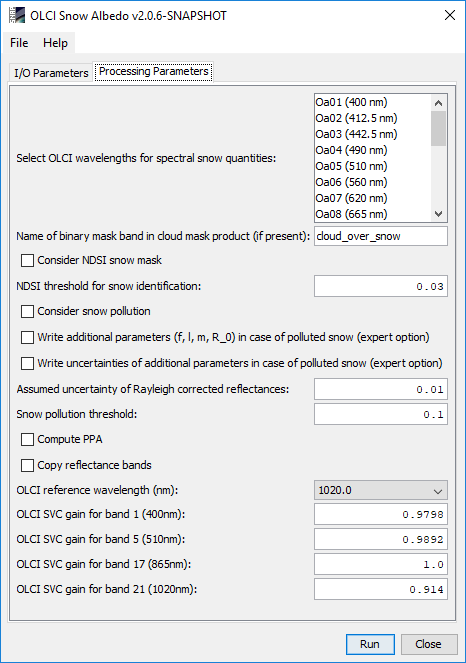
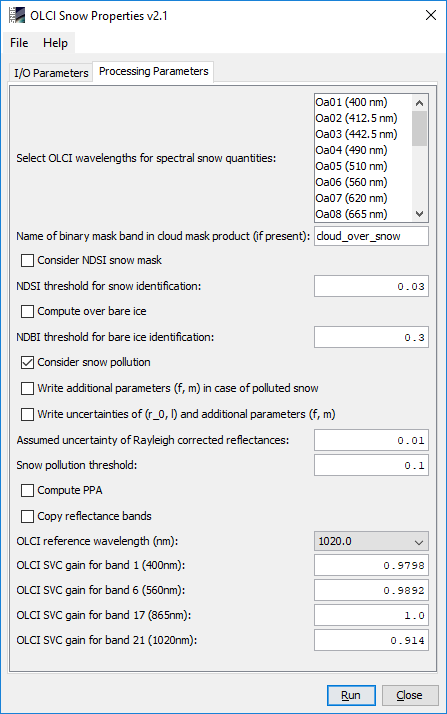
SUM: final minor corrections; processor: slightly updated help doc

diff --git a/src/main/javahelp/org/esa/s3tbx/s3tbx/snow/docs/s3snow/S3SnowProcessorDescription.html b/src/main/javahelp/org/esa/s3tbx/s3tbx/snow/docs/s3snow/S3SnowProcessorDescription.html
@@ -98,7 +98,7 @@
     The OLCI wavelengths considered for the retrieval of spectral snow quantities. For the selected wavelengths,
     the computed spectral snow quantities (i.e. spectral snow albedo, see description of processor output below)
     will be written as corresponding band into the target product. If no band is selected, only broadband snow
-    quantities and other selected, wavelength-independent quantities are written to the target product.
+    quantities and other selected wavelength-independent quantities are written to the target product.
 </p>
 
 <p class="i1">
@@ -150,18 +150,20 @@
 </p>
 
 <p class="i1">
-    <b>Write additional parameters (f, l, m, R_0) in case of polluted snow (expert option): </b><br>
-    If selected, additional parameters related to polluted snow will be computed for the pixels identified as
-    'polluted' (see above) and written to the target product. The interpretation of these parameters requires
+    <b>Write additional parameters (f, m) in case of polluted snow: </b><br>
+    "If selected, additional parameters (f, m) will be written to the target product in case
+    of polluted snow. The option 'Consider snow pollution' must be selected as well.
+    The interpretation of these parameters requires
     detailed knowledge of the underlying algorithm, therefore this user parameter is considered as an 'expert option'.
     The default is 'false'.
 </p>
 
 <p class="i1">
-    <b>Write uncertainties of additional parameters in case of polluted snow (expert option): </b><br>
-    If selected together with the previous processing parameter, uncertainties of the additional parameters related to
-    polluted snow (see previous processing parameter) will be computed for the pixels identifies as 'polluted'
-    (see above) and written to the target product. The interpretation of these uncertainties requires
+    <b>Write uncertainties of (r_0, l) and additional parameters (f, m): </b><br>
+    If selected, uncertainties of (r_0, l) and of additional parameters (f, m)  in case of polluted
+    snow will be written to the target product.
+    For uncertainties of (f, m), the options 'Consider snow pollution' and 'Write additional parameters
+    (f, m)...' must be selected as well. The interpretation of these uncertainties requires
     detailed knowledge of the underlying algorithm, therefore this user parameter is also considered as an 'expert option'.
     The default is 'false'.
 </p>
@@ -175,7 +177,7 @@
 <p class="i1">
     <b>Snow pollution threshold: </b><br>
     Threshold for identification of polluted snow, as explained above with the processing parameter
-    'Consider snow pollution'. Default values is 0.1.
+    'Consider snow pollution'. Default value is 0.1.
 </p>
 
 <p class="i1">
@@ -381,7 +383,7 @@ were selected, and all boolean processing parameters explained above set to 'tru
 
     <b>[2]</b>
     Kokhanovsky, A., Box, J.E., Lamare, M., Dumont, M., Picard, G., Danne, O., and C. Brockmann:
-    Algorithm Theoretical Basis Document: Snow Properties Retrieval from Sentinel-3. Version 3.0, 30 April 2018.<br><br>
+    Algorithm Theoretical Basis Document: Snow Properties Retrieval from Sentinel-3. Version 2.4, 11 January 2019.<br><br>
 
     <b>[3]</b>
     <a href="https://www.google.com/url?sa=t&rct=j&q=&esrc=s&source=web&cd=1&ved=2ahUKEwjWg7ChtOrcAhXPfFAKHeIZCp4QFjAAegQICRAC&url=https%3A%2F%2Fwww.eumetsat.int%2Fwebsite%2Fwcm%2Fidc%2Fidcplg%3FIdcService%3DGET_FILE%26dDocName%3DPDF_S3A_PN_OLCI_L2%26RevisionSelectionMethod%3DLatestReleased%26Rendition%3DWeb&usg=AOvVaw3kklxm9qc0TSptA6fX1MOa">

diff --git a/src/main/javahelp/org/esa/s3tbx/s3tbx/snow/docs/s3snow/S3Snow.html b/src/main/javahelp/org/esa/s3tbx/s3tbx/snow/docs/s3snow/S3Snow.html
@@ -57,7 +57,7 @@
 
     <b>[2]</b>
     Kokhanovsky, A., Box, J.E., Lamare, M., Dumont, M., Picard, G., Danne, O., and C. Brockmann:
-    Algorithm Theoretical Basis Document: Snow Properties Retrieval from Sentinel-3. Version 3.0, 30 April 2018.<br><br>
+    Algorithm Theoretical Basis Document: Snow Properties Retrieval from Sentinel-3. Version 2.4, 11 January 2019.<br><br>
 
     <b>[3]</b>
     <a href="https://www.eumetsat.int/website/wcm/idc/idcplg?IdcService=GET_FILE&dDocName=PDF_S3A_PN_OLCI_L2_REP&RevisionSelectionMethod=LatestReleased&Rendition=Web">

diff --git a/src/main/java/org/esa/s3tbx/snow/OlciSnowPropertiesOp.java b/src/main/java/org/esa/s3tbx/snow/OlciSnowPropertiesOp.java
@@ -77,10 +77,10 @@ public class OlciSnowPropertiesOp extends Operator {
     private static final String POLLUTION_L_BAND_NAME = "l";
     private static final String POLLUTION_M_BAND_NAME = "m";
     private static final String POLLUTION_R0_BAND_NAME = "r_0";
-    private static final String POLLUTION_F_REL_ERR_BAND_NAME = "f_rel_err";
-    private static final String POLLUTION_L_REL_ERR_BAND_NAME = "l_rel_err";
-    private static final String POLLUTION_M_REL_ERR_BAND_NAME = "m_rel_err";
-    private static final String POLLUTION_R0_REL_ERR_BAND_NAME = "r_0_rel_err";
+    private static final String F_REL_ERR_BAND_NAME = "f_rel_err";
+    private static final String L_REL_ERR_BAND_NAME = "l_rel_err";
+    private static final String M_REL_ERR_BAND_NAME = "m_rel_err";
+    private static final String R0_REL_ERR_BAND_NAME = "r_0_rel_err";
     private static final String NDSI_MASK_BAND_NAME = "ndsi_mask";
     private static final String NDSI_BAND_NAME = "ndsi";
 
@@ -132,19 +132,20 @@ public class OlciSnowPropertiesOp extends Operator {
     private boolean considerSnowPollution;
 
     @Parameter(defaultValue = "false",
-            label = "Write additional parameters (f, l, m, R_0) in case of polluted snow (expert option)",
+            label = "Write additional parameters (f, m) in case of polluted snow",
             description =
-                    "If selected, additional parameters (f, l, m, R_0) will be written to the target product in case " +
+                    "If selected, additional parameters (f, m) will be written to the target product in case " +
                             "of polluted snow. Option 'Consider snow pollution' must be selected as well. Useful for experts only.")
     private boolean writeAdditionalSnowPollutionParms;
 
     @Parameter(defaultValue = "false",
-            label = "Write uncertainties of additional parameters in case of polluted snow (expert option)",
+            label = "Write uncertainties of (r_0, l) and additional parameters (f, m)",
             description =
-                    "If selected, uncertainties of additional parameters will be written to the target product in case " +
-                            "of polluted snow. Options 'Consider snow pollution' and 'Write additional parameters " +
-                            "(f, l, m, R_0)...' must be selected as well. Useful for experts only.")
-    private boolean writeUncertaintiesOfAdditionalSnowPollutionParms;
+                    "If selected, uncertainties of (r_0, l) and of additional parameters (f, m)  in case of polluted " +
+                            "snow will be written to the target product. " +
+                            "For uncertainties of (f, m), the options 'Consider snow pollution' and 'Write additional parameters " +
+                            "(f, m)...' must be selected as well. Useful for experts only.")
+    private boolean writeUncertaintiesOfAdditionalSnowParms;
 
     @Parameter(defaultValue = "0.01",
             description = "Assumed uncertainty in Rayleigh corrected reflectances",
@@ -512,10 +513,18 @@ public class OlciSnowPropertiesOp extends Operator {
                             }
 
                             // we want l, r_0 for both clean and polluted snow (AK 20181130)
-                            final Band pollutionLBand = targetProduct.getBand(POLLUTION_L_BAND_NAME);
-                            targetTiles.get(pollutionLBand).setSample(x, y, l);
-                            final Band pollutionR0Band = targetProduct.getBand(POLLUTION_R0_BAND_NAME);
-                            targetTiles.get(pollutionR0Band).setSample(x, y, r0);
+                            final Band lBand = targetProduct.getBand(POLLUTION_L_BAND_NAME);
+                            targetTiles.get(lBand).setSample(x, y, l);
+                            final Band r0Band = targetProduct.getBand(POLLUTION_R0_BAND_NAME);
+                            targetTiles.get(r0Band).setSample(x, y, r0);
+                            if (writeUncertaintiesOfAdditionalSnowParms) {
+                                final double r0RelErr = spectralAlbedoResult.getR0RelErr();
+                                final Band r0RelErrBand = targetProduct.getBand(R0_REL_ERR_BAND_NAME);
+                                targetTiles.get(r0RelErrBand).setSample(x, y, r0RelErr);
+                                final Band pollutionLRelErrBand = targetProduct.getBand(L_REL_ERR_BAND_NAME);
+                                final double lRelErr = spectralAlbedoResult.getlRelErr();
+                                targetTiles.get(pollutionLRelErrBand).setSample(x, y, lRelErr);
+                            }
 
                             if (considerSnowPollution) {
                                 final Band pollutionMaskBand = targetProduct.getBand(POLLUTION_MASK_BAND_NAME);
@@ -532,19 +541,13 @@ public class OlciSnowPropertiesOp extends Operator {
                                     final Band pollutionMBand = targetProduct.getBand(POLLUTION_M_BAND_NAME);
                                     targetTiles.get(pollutionMBand).setSample(x, y, isPollutedSnow ? m : Float.NaN);
 
-                                    if (writeUncertaintiesOfAdditionalSnowPollutionParms) {
-                                        final double r0RelErr = spectralAlbedoResult.getR0RelErr();
+                                    if (writeUncertaintiesOfAdditionalSnowParms) {
                                         final double fRelErr = spectralAlbedoResult.getfRelErr();
-                                        final double lRelErr = spectralAlbedoResult.getlRelErr();
                                         final double mRelErr = spectralAlbedoResult.getmRelErr();
-                                        final Band pollutionFRelErrBand = targetProduct.getBand(POLLUTION_F_REL_ERR_BAND_NAME);
-                                        targetTiles.get(pollutionFRelErrBand).setSample(x, y, isPollutedSnow ? fRelErr : Float.NaN);
-                                        final Band pollutionLRelErrBand = targetProduct.getBand(POLLUTION_L_REL_ERR_BAND_NAME);
-                                        targetTiles.get(pollutionLRelErrBand).setSample(x, y, isPollutedSnow ? lRelErr : Float.NaN);
-                                        final Band pollutionMRelErrBand = targetProduct.getBand(POLLUTION_M_REL_ERR_BAND_NAME);
-                                        targetTiles.get(pollutionMRelErrBand).setSample(x, y, isPollutedSnow ? mRelErr : Float.NaN);
-                                        final Band pollutionR0RelErrBand = targetProduct.getBand(POLLUTION_R0_REL_ERR_BAND_NAME);
-                                        targetTiles.get(pollutionR0RelErrBand).setSample(x, y, isPollutedSnow ? r0RelErr : Float.NaN);
+                                        final Band pollutionFRelErrBand = targetProduct.getBand(F_REL_ERR_BAND_NAME);
+                                        targetTiles.get(pollutionFRelErrBand).setSample(x, y, fRelErr);
+                                        final Band pollutionMRelErrBand = targetProduct.getBand(M_REL_ERR_BAND_NAME);
+                                        targetTiles.get(pollutionMRelErrBand).setSample(x, y, mRelErr);
                                     }
                                 }
                             }
@@ -597,11 +600,11 @@ public class OlciSnowPropertiesOp extends Operator {
                 targetProduct.addBand(POLLUTION_F_BAND_NAME, ProductData.TYPE_FLOAT32);
                 targetProduct.addBand(POLLUTION_M_BAND_NAME, ProductData.TYPE_FLOAT32);
 
-                if (writeUncertaintiesOfAdditionalSnowPollutionParms) {
-                    targetProduct.addBand(POLLUTION_F_REL_ERR_BAND_NAME, ProductData.TYPE_FLOAT32);
-                    targetProduct.addBand(POLLUTION_L_REL_ERR_BAND_NAME, ProductData.TYPE_FLOAT32);
-                    targetProduct.addBand(POLLUTION_M_REL_ERR_BAND_NAME, ProductData.TYPE_FLOAT32);
-                    targetProduct.addBand(POLLUTION_R0_REL_ERR_BAND_NAME, ProductData.TYPE_FLOAT32);
+                if (writeUncertaintiesOfAdditionalSnowParms) {
+                    targetProduct.addBand(F_REL_ERR_BAND_NAME, ProductData.TYPE_FLOAT32);
+                    targetProduct.addBand(L_REL_ERR_BAND_NAME, ProductData.TYPE_FLOAT32);
+                    targetProduct.addBand(M_REL_ERR_BAND_NAME, ProductData.TYPE_FLOAT32);
+                    targetProduct.addBand(R0_REL_ERR_BAND_NAME, ProductData.TYPE_FLOAT32);
                 }
             }
         }

diff --git a/src/main/java/org/esa/s3tbx/snow/OlciSnowPropertiesAlgorithm.java b/src/main/java/org/esa/s3tbx/snow/OlciSnowPropertiesAlgorithm.java
@@ -133,19 +133,22 @@ class OlciSnowPropertiesAlgorithm {
             }
         }
 
+        double[] z = new double[4];
+        for (int i = 0; i < z.length; i++) {
+            z[i] = 1.0 / Math.log(brr[i] / r0);
+        }
+        final double nu_1 = 2.0 * eps_1 - 2.0 * eps_1 * z[3];
+        final double nu_2 = 2.0 * eps_2 + 2.0 * eps_1 * 1.0 / Math.log(brr[3] / r0);
+
+        final double r0RelErr = computeR0RelErr(r0, brr, deltaBrr);
+        final double lRelErr = computeLRelErr(l, brr, nu_1, nu_2, deltaBrr);
+
         // relative error estimation for isPolluted snow following AK...
         if (isPolluted) {
             final double wvl_1 = OlciSnowPropertiesConstants.WAVELENGTH_GRID_OLCI[0];
             final double wvl_2 = OlciSnowPropertiesConstants.WAVELENGTH_GRID_OLCI[5];
-            double[] z = new double[4];
-            for (int i = 0; i < z.length; i++) {
-                z[i] = 1.0 / Math.log(brr[i] / r0);
-            }
 
             final double s = 0.0; // todo: unreadable, check with AK, set to 0.0 in the meantime
-
-            final double nu_1 = 2.0 * eps_1 - 2.0 * eps_1 * z[3];
-            final double nu_2 = 2.0 * eps_2 + 2.0 * eps_1 * 1.0 / Math.log(brr[3] / r0);
 
             double[] w = new double[4];
             w[0] = 2.0 * z[0] / (m * Math.log(wvl_2 / wvl_1));
@@ -159,14 +162,12 @@ class OlciSnowPropertiesAlgorithm {
             h[2] = -eps_1 * (h[0] + h[1] + 2.0 * z[3]);
             h[3] = 2.0 * eps_2 * (z[3] + s * z[1] - (1.0 + s * z[0]) * z[0]) - 2.0 * z[3];
 
-            final double r0RelErr = computeR0RelErr(r0, brr, deltaBrr);
-            final double lRelErr = computeLRelErr(l, brr, nu_1, nu_2, deltaBrr);
             final double mRelErr = computeMRelErr(m, brr, w, deltaBrr);
             final double fRelErr = computeFRelErr(f, brr, h, deltaBrr);
 
             return new SpectralAlbedoResult(spectralAlbedos, r0, f, l, m, r0RelErr, fRelErr, lRelErr, mRelErr);
         } else {
-            return new SpectralAlbedoResult(spectralAlbedos, r0, f, l, m, 0.0, 0.0, 0.0, 0.0);
+            return new SpectralAlbedoResult(spectralAlbedos, r0, f, l, m, r0RelErr, Float.NaN, lRelErr, Float.NaN);
         }
     }
 

diff --git a/src/main/resources/doc/s3snow_products.rst b/src/main/resources/doc/s3snow_products.rst
@@ -195,7 +195,7 @@ SNAP Rayleigh Correction Processor. This processor can be accessed from the SNAP
 
 .. rubric:: Footnotes
 
-.. [#f1] More precisely, the term 'BRR' refers to a Bottom-of-atmosphere reflectance (BOAR), which is derived from Top-of-atmosphere reflectance by correction for molecular scattering and absorption.
+.. [#f1] Physically, the term 'BRR' used in the Rayleigh Correction Processor should better be called 'BOAR' (Bottom-of-atmosphere reflectance). The BOAR is derived from Top-of-atmosphere reflectance by correction for molecular scattering and absorption.
 
 .. _rayleigh_in_snap:
 .. figure::  pix/rc_in_snap.png
